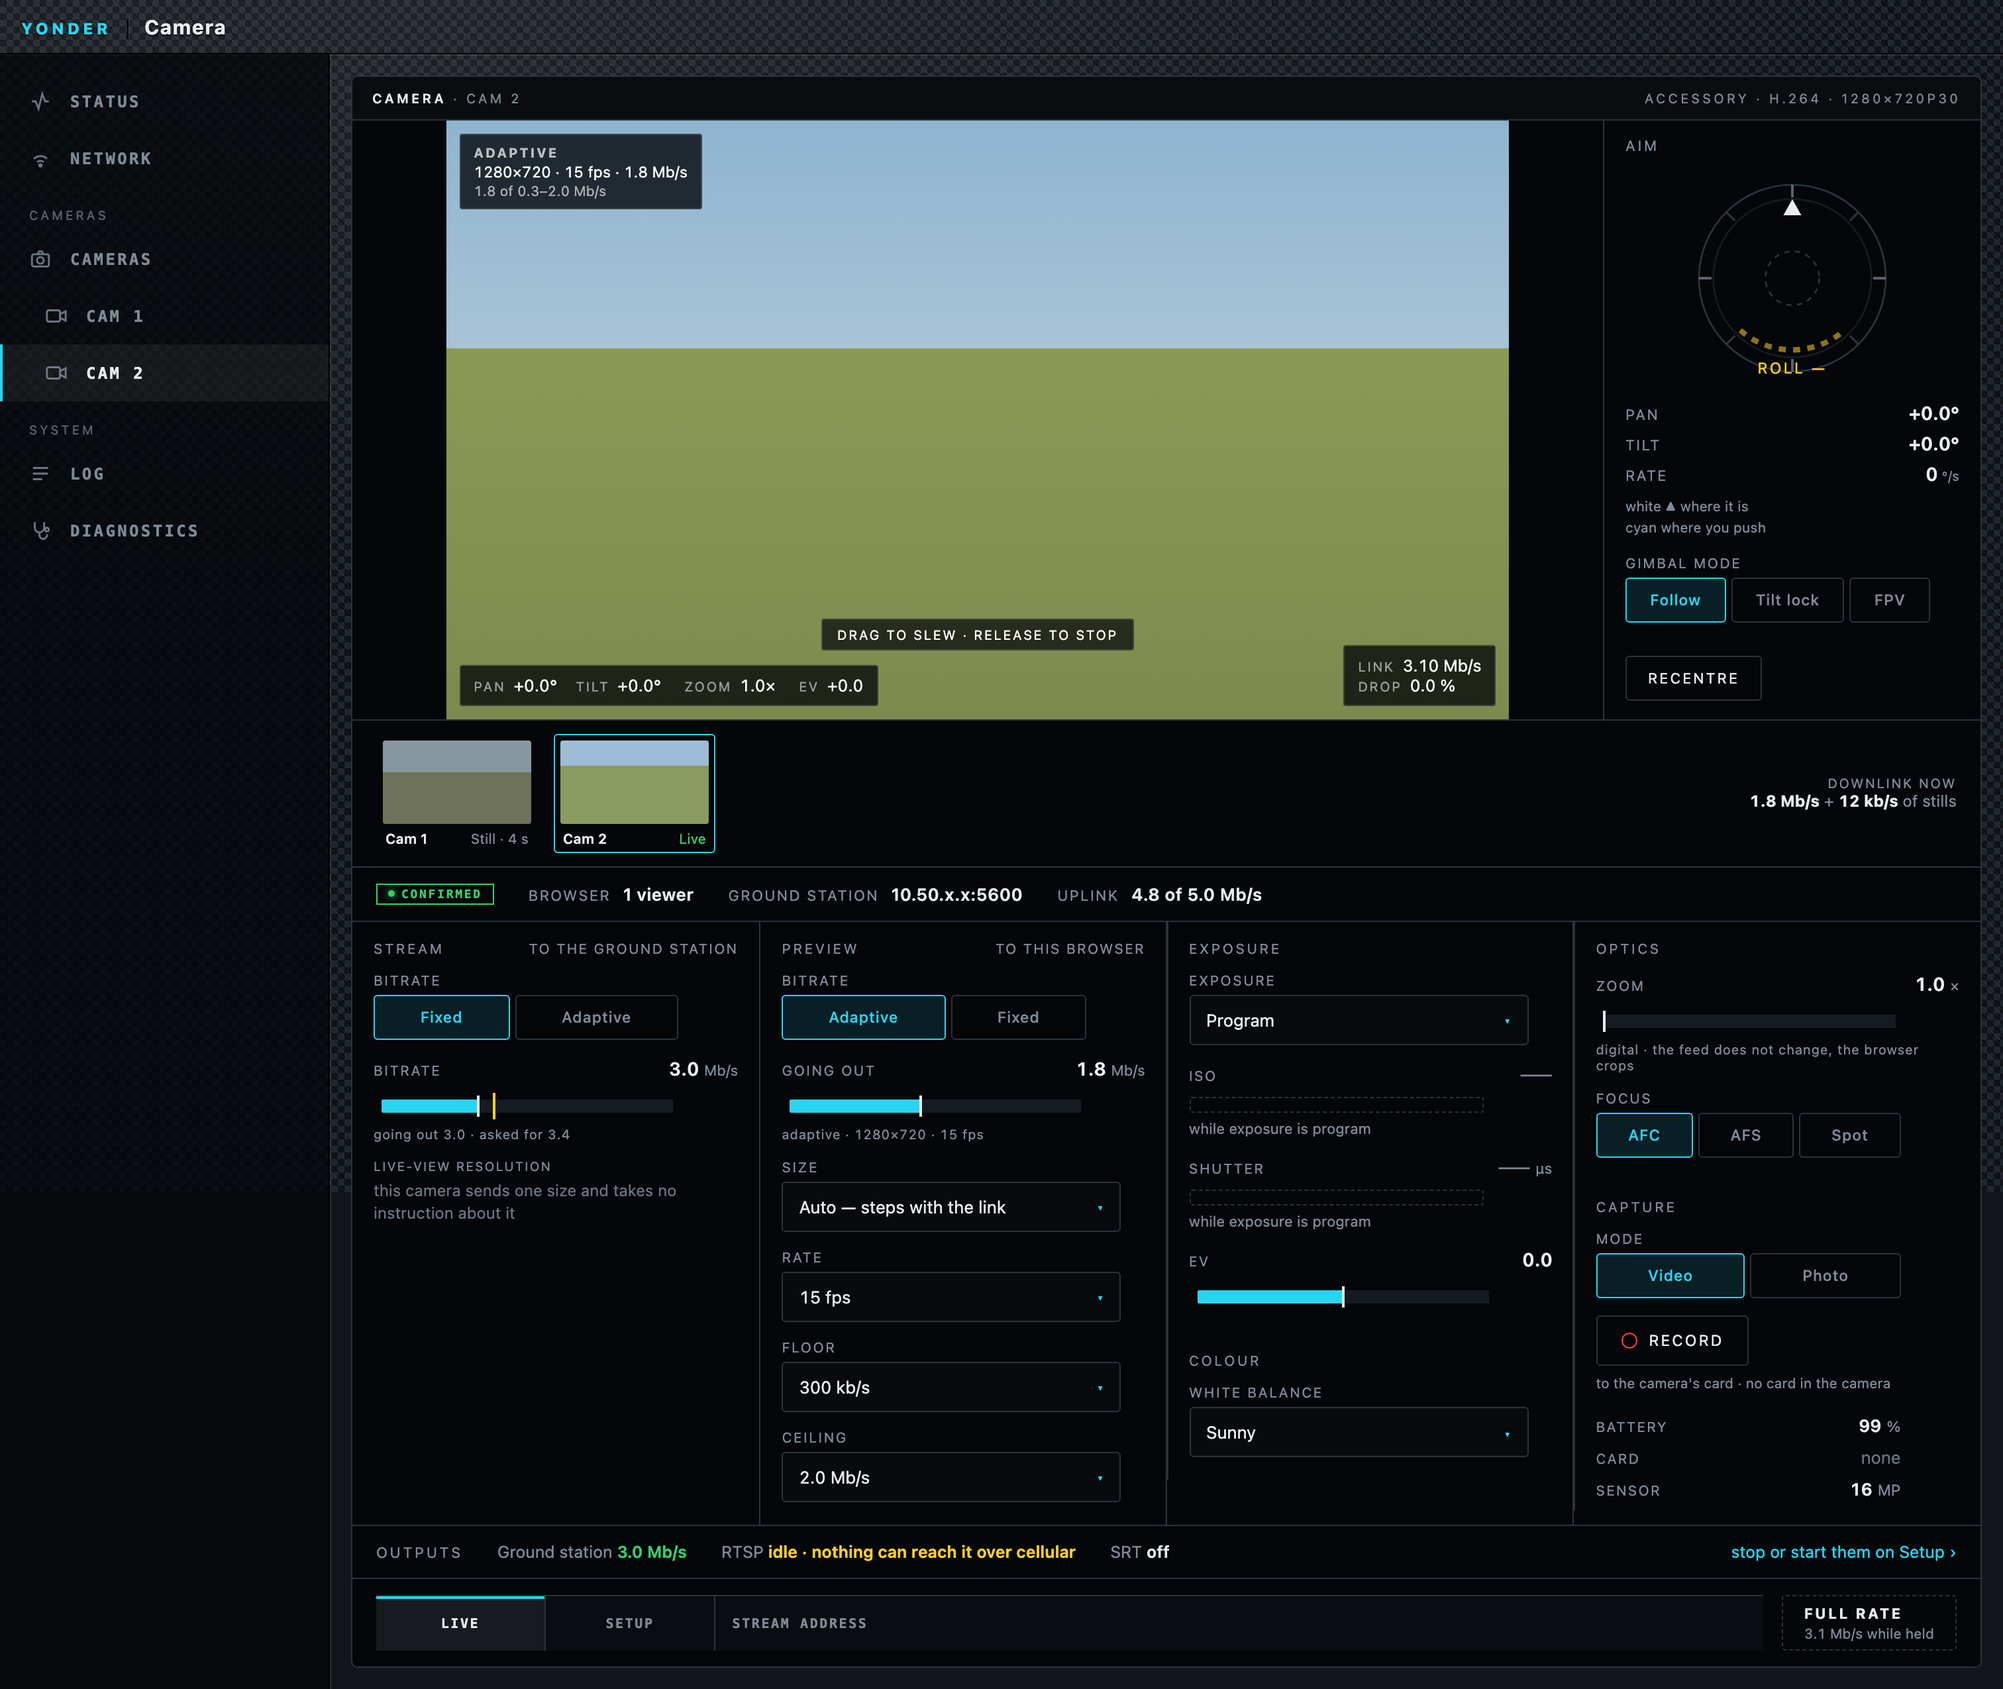
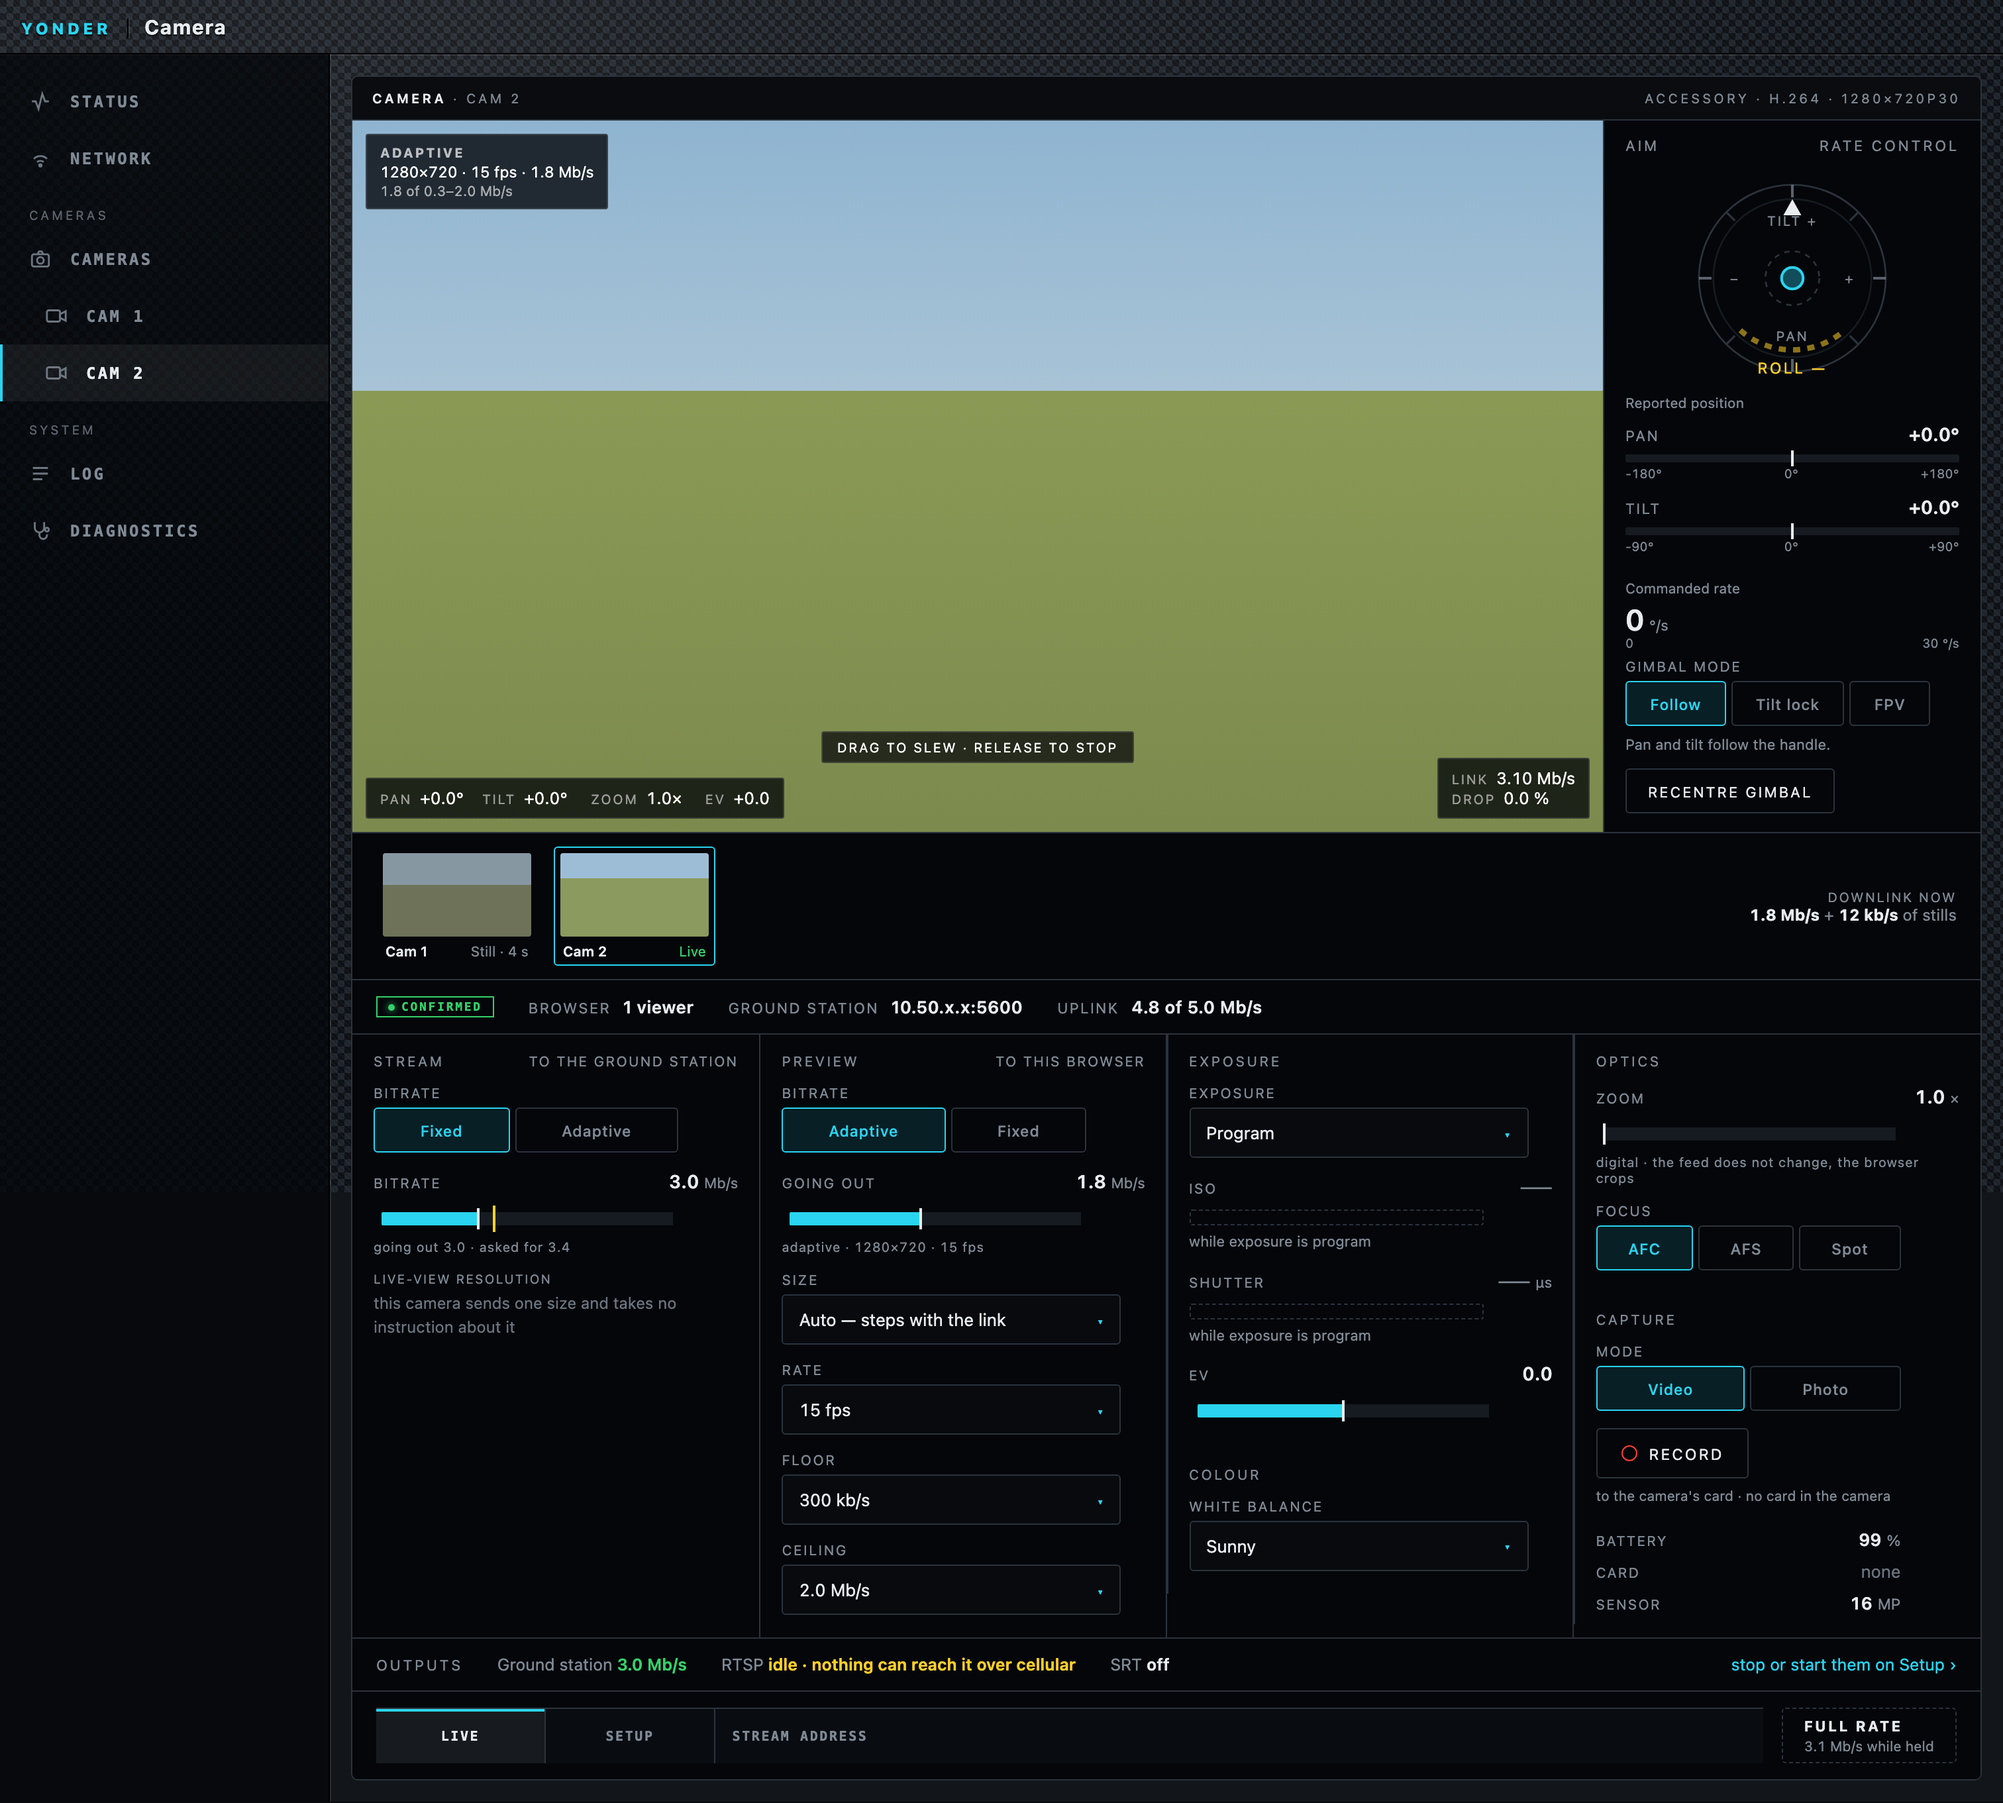
docs(console): the Aim panel draws pan and tilt against their bounds
Reported position as two bounded gauges rather than two bare numbers — a
bounded quantity is never a bare number (R-UI-09) — with Commanded rate as
its own block, axis labels on the pad so it reads without instruction, the
control model stated at the head, and a sentence under the gimbal mode
saying what the mode does. Adopted from the alternative mockup at the
operator's direction; the heading mark and the struck axis for an
advertised state stay.

diff --git a/docs/console/design/instrument-library/gallery/DraftAimDial.vue b/docs/console/design/instrument-library/gallery/DraftAimDial.vue
@@ -18,6 +18,13 @@
         <path d="M22 22l5 5 M96 22l-5 5 M22 96l5-5 M96 96l-5-5"/>
       </g>
       <circle cx="59" cy="59" r="15" fill="none" :stroke="c.divider" stroke-width="1" stroke-dasharray="3 3"/>
+      <!-- axis labels, so the pad reads without instruction -->
+      <g :fill="c.label" font-size="7.5" font-family="ui-sans-serif,system-ui" letter-spacing=".8" text-anchor="middle">
+        <text x="59" y="30">TILT +</text><text x="59" y="94">PAN</text>
+        <text x="27" y="62">&#8722;</text><text x="91" y="62">+</text>
+      </g>
+      <!-- the puck, at rest at the centre -->
+      <circle v-if="!pushing" cx="59" cy="59" r="6" :fill="c.select" fill-opacity=".35" :stroke="c.select" stroke-width="1.5"/>
 
       <!-- an axis that will not answer stays on the dial, struck and labelled,
            so a gimbal that half works is not read as one that does -->
@@ -42,13 +49,22 @@
     </svg>
 
     <div class="d-aim__rows">
-      <div class="d-row"><span class="l">Pan</span><span class="v">{{ fmt(pan) }}&deg;</span></div>
-      <div class="d-row"><span class="l">Tilt</span><span class="v">{{ fmt(tilt) }}&deg;</span></div>
-      <div class="d-row">
-        <span class="l">Rate</span>
-        <span class="v" :class="{ pushing }">{{ rateShown }}<i>&deg;/s</i></span>
+      <div class="d-blk">
+        <span class="d-blk__h">Reported position</span>
+        <div v-for="ax in axesShown" :key="ax.key" class="d-pos" :class="{ dead: ax.state !== 'present' }">
+          <div class="d-row"><span class="l">{{ ax.label }}</span><span class="v">{{ ax.state === 'present' ? fmt(ax.value) + '°' : '——' }}</span></div>
+          <div class="d-pos__trk">
+            <i class="d-pos__zero" />
+            <i v-if="ax.state === 'present'" class="d-pos__ptr" :style="{ left: pct(ax.value, ax.min, ax.max) }" />
+          </div>
+          <div class="d-pos__b"><span>{{ ax.min }}&deg;</span><span>0&deg;</span><span>+{{ ax.max }}&deg;</span></div>
+        </div>
       </div>
-      <div class="d-fine">white &#9650; where it is<br>cyan where you push</div>
+      <div v-if="axes.pan === 'present' || axes.tilt === 'present'" class="d-blk">
+        <span class="d-blk__h">Commanded rate</span>
+        <div class="d-rate" :class="{ pushing }">{{ rateShown }}<i>&deg;/s</i></div>
+        <div class="d-pos__b"><span>0</span><span></span><span>{{ MAX }} &deg;/s</span></div>
+      </div>
       <div v-if="atLimit" class="d-limit"><i></i>At the limit</div>
     </div>
   </div>
@@ -71,12 +87,21 @@ export default {
   emits: ['slew', 'stop'],
   data: () => ({ pushing: false, px: 59, py: 59, rate: 0 }),
   computed: {
+    MAX: () => MAX_RATE,
     /* The gimbal's own heading, so the white mark points where it looks. */
     bearing () { return Math.max(-180, Math.min(180, this.pan)) },
-    rateShown () { return this.pushing ? this.rate.toFixed(0) : '0' }
+    rateShown () { return this.pushing ? this.rate.toFixed(0) : '0' },
+    /* R-UI-09: a bounded quantity is drawn against its bounds. */
+    axesShown () {
+      return [
+        { key: 'pan', label: 'Pan', value: this.pan, min: -180, max: 180, state: this.axes.pan },
+        { key: 'tilt', label: 'Tilt', value: this.tilt, min: -90, max: 90, state: this.axes.tilt },
+      ]
+    }
   },
   methods: {
     fmt (v) { return (v >= 0 ? '+' : '−') + Math.abs(v).toFixed(1) },
+    pct (v, lo, hi) { return `${Math.max(0, Math.min(100, (100 * (v - lo)) / (hi - lo)))}%` },
     at (e) {
       const r = this.$el.querySelector('.d-aim__dial').getBoundingClientRect()
       const x = ((e.clientX - r.left) / r.width) * 118 - 59
@@ -115,7 +140,18 @@ export default {
 .d-aim { display:flex; gap:12px; align-items:flex-start; }
 .d-aim__dial { flex:0 0 auto; cursor:grab; touch-action:none; }
 .d-aim__dial.live { cursor:grabbing; }
-.d-aim__rows { flex:1; min-width:0; }
+.d-aim__rows { flex:1; min-width:0; display:flex; flex-direction:column; gap:12px; margin-bottom:6px; }
+.d-blk__h { display:block; font-size:10.5px; color: var(--yonder-label,#7f8a95); margin-bottom:6px; }
+.d-pos { margin-bottom:8px; }
+.d-pos.dead .d-pos__trk { border:1px dashed var(--yonder-divider,#2b333c); background:transparent; }
+.d-pos__trk { position:relative; height:6px; margin:4px 0 3px; border-radius:1px; background: var(--yonder-track,#161b21); }
+.d-pos__zero { position:absolute; left:50%; top:-2px; width:1px; height:10px; background: var(--yonder-divider,#2b333c); }
+.d-pos__ptr { position:absolute; top:-3px; width:2px; height:12px; margin-left:-1px; background: var(--yonder-value,#fff); }
+.d-pos__b { display:flex; justify-content:space-between; font-size:9.5px; font-variant-numeric:tabular-nums;
+  color: var(--yonder-label,#7f8a95); }
+.d-rate { font-size:22px; font-weight:600; font-variant-numeric:tabular-nums; color: var(--yonder-value,#fff); line-height:1.1; }
+.d-rate.pushing { color: var(--yonder-select,#2ad4f0); }
+.d-rate i { font-style:normal; font-weight:400; font-size:11px; text-transform:none; margin-left:4px; color: var(--yonder-label,#7f8a95); }
 .d-row { display:flex; align-items:baseline; justify-content:space-between; gap:10px; padding:3px 0; }
 .d-row .l { font-size:11px; letter-spacing:.1em; text-transform:uppercase;
   color: var(--yonder-label,#7f8a95); }

diff --git a/docs/console/design/instrument-library/gallery/deck.js b/docs/console/design/instrument-library/gallery/deck.js
@@ -144,8 +144,7 @@ export const DraftDeck = defineComponent({
 
     const aimPanel = hasAim ? h("div", { class: ["d-aimpanel", { dead: !aimLive }] }, [
       h("div", { class: "d-h" }, [h("span", "Aim"),
-        h("em", { class: aimLive ? "q-select" : "q-waiting" },
-          aimLive ? (this.aim.slewPan || this.aim.slewTilt ? "rate" : "") : "not answering")]),
+        h("em", { class: aimLive ? "q-label" : "q-waiting" }, aimLive ? "rate control" : "not answering")]),
       h(AimDial, {
         pan: this.aim.pan, tilt: this.aim.tilt, c: this.pal,
         atLimit: aimLive && Math.abs(this.aim.tilt) > 60,
@@ -155,8 +154,13 @@ export const DraftDeck = defineComponent({
         onStop: () => { this.aim.slewPan = 0; this.aim.slewTilt = 0; },
       }),
       ...Object.entries(cam.controls).filter(([, c]) => c.column === "aim").map(([k, c]) => this.draw(k, c)),
+      aimLive ? h("div", { class: "d-modenote" }, {
+        "Follow": "Pan and tilt follow the handle.",
+        "Tilt lock": "Tilt holds where you put it; pan follows the handle.",
+        "FPV": "Everything follows the handle, roll included.",
+      }[this.v.gimbalMode] ?? "") : null,
       aimLive ? h("button", { type: "button", class: "d-recentre",
-        onClick: () => { this.aim.pan = 0; this.aim.tilt = 0; } }, "Recentre") : null,
+        onClick: () => { this.aim.pan = 0; this.aim.tilt = 0; } }, "Recentre gimbal") : null,
       cam.aim.reason ? h("div", { class: "d-why why-advertised" }, cam.aim.reason) : null,
     ]) : null;
 

diff --git a/docs/console/design/instrument-library/gallery/gallery.css b/docs/console/design/instrument-library/gallery/gallery.css
@@ -197,3 +197,7 @@ body { margin:0; background: var(--yonder-background, #0a0c0f); color: var(--yon
 .d-thumbs__cost b { color: var(--yonder-value,#fff); font-variant-numeric:tabular-nums; }
 .d-thumbs__cost span em { display:inline; letter-spacing:0; text-transform:none; font-size:12px; }
 .g-blank { padding:40px; color: var(--yonder-label,#7f8a95); font-size:13px; }
+
+.d-modenote { font-size:11px; color: var(--yonder-label,#7f8a95); margin:-6px 0 0; }
+.q-label { color: var(--yonder-label,#7f8a95); }
+.d-aimpanel .d-aim { gap:8px; }

diff --git a/docs/console/design/instrument-library/README.md b/docs/console/design/instrument-library/README.md
@@ -83,6 +83,12 @@ predates these and must be brought up to them:
   R-UI-03). A press on a thumbnail switches; the sidebar follows.
 - **Capacity follows the link** in the strip's uplink reading, and the reading
   says when the encodes exceed it (R-VID-11).
+- **The Aim panel draws pan and tilt against their bounds** (R-UI-09) under a
+  *Reported position* heading, with *Commanded rate* as its own block, axis
+  labels on the pad, `RATE CONTROL` stated at the head, a sentence under the
+  gimbal mode saying what the mode does, and `Recentre gimbal`. Four of those
+  came from the alternative in `../instrument-library-alternative/`; the
+  heading mark and the struck axis for an advertised state stayed from here.
 - The harness has a **link** switch — good / poor / lost — so the states can
   be seen. **Nothing measures the link yet**: R-VID-07 is unbuilt, and the
   round-trip figure is typed in.
